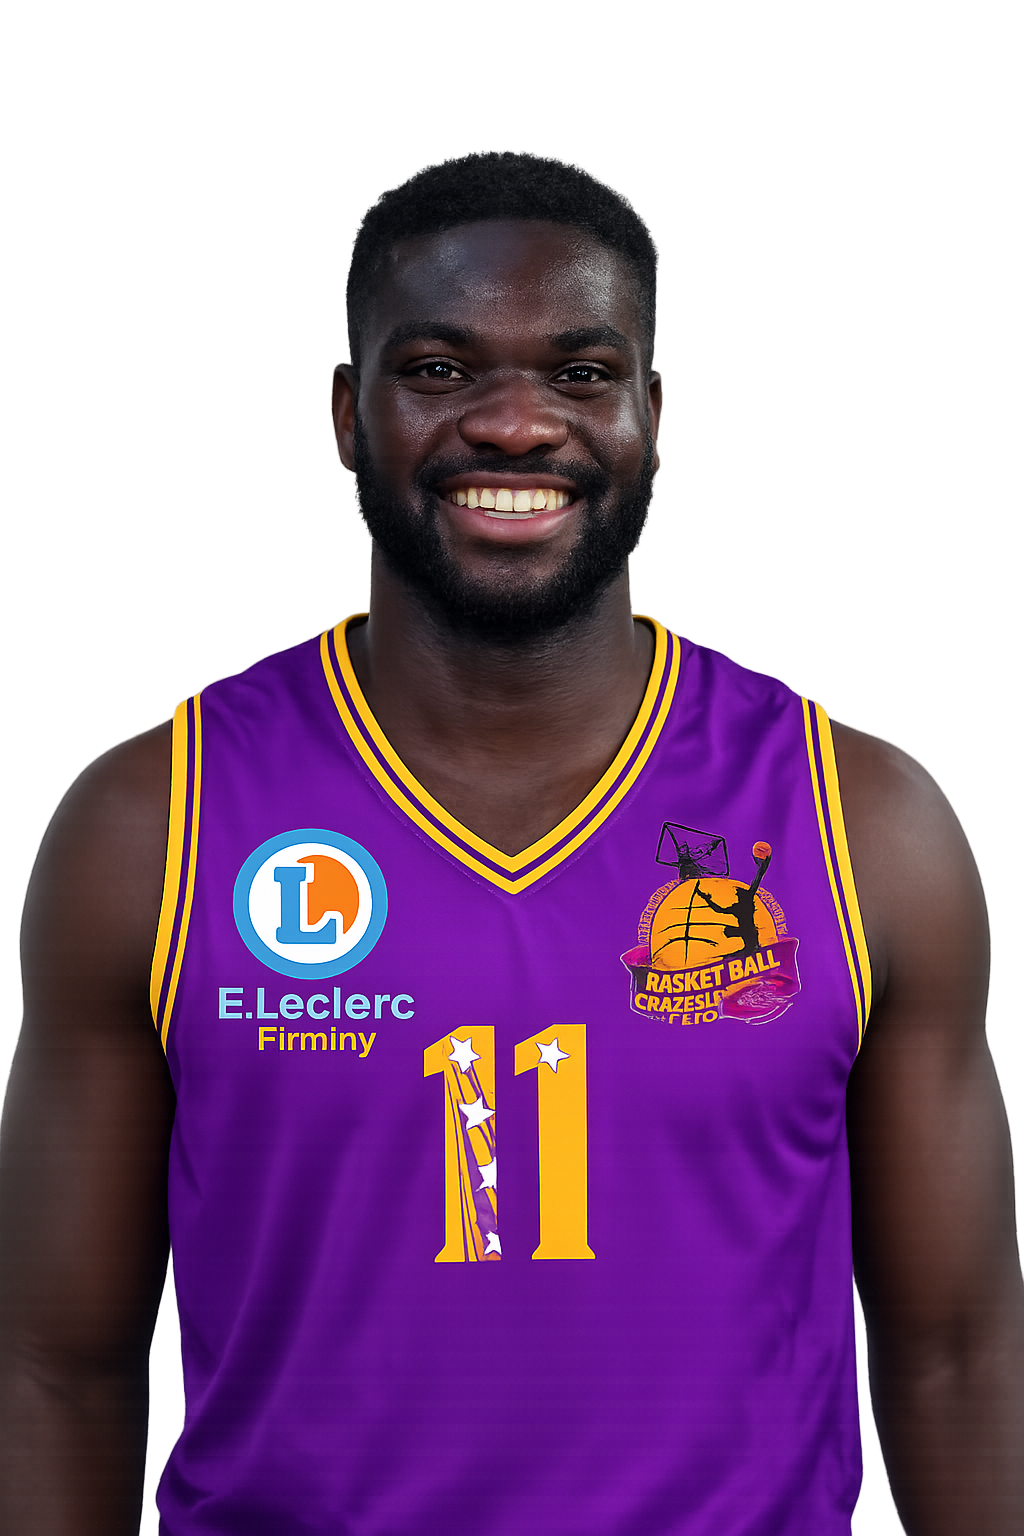
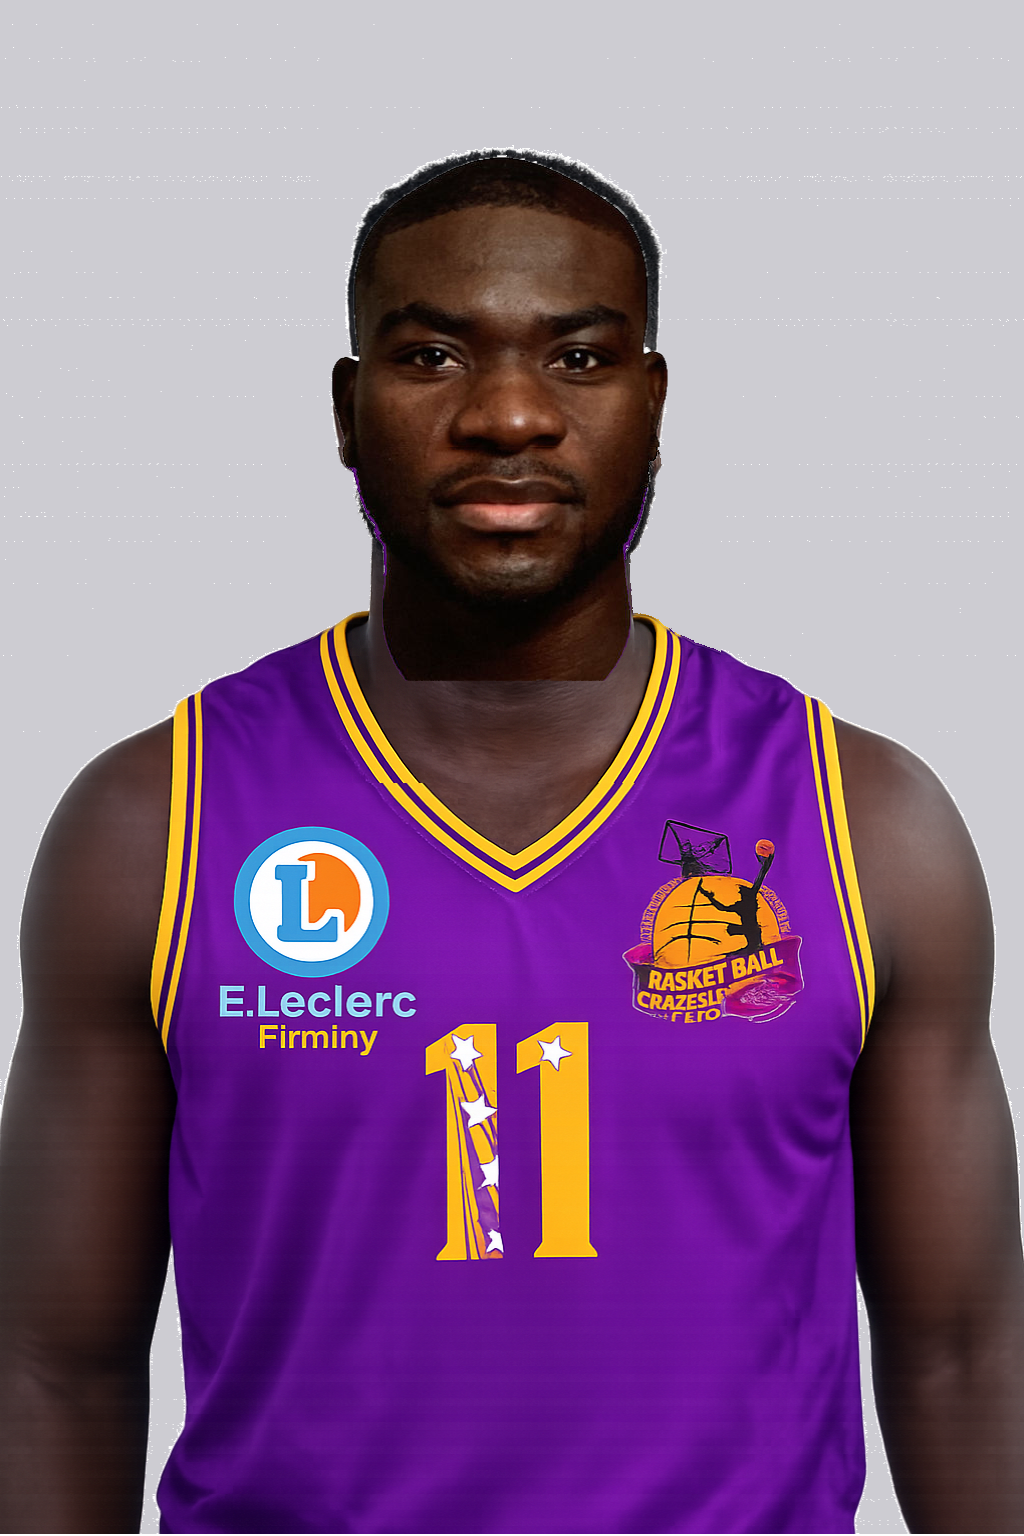
maj12h56

diff --git a/index.html b/index.html
@@ -199,15 +199,15 @@
         .calendar-nav button:hover { background: var(--violet-light); }
         .calendar-nav h3 { min-width: 220px; text-align: center; font-size: 1.3rem; color: var(--violet-deep); }
         .calendar-grid { display: grid; grid-template-columns: repeat(7, 1fr); background: var(--line); gap: 1px; border-radius: var(--radius-md); overflow: hidden; box-shadow: var(--shadow-sm); }
-        .calendar-day { background: var(--paper); min-height: 108px; padding: 10px; transition: background 0.15s, box-shadow 0.15s; }
+        .calendar-day { background: var(--paper); min-height: 128px; padding: 10px; transition: background 0.15s, box-shadow 0.15s; }
         .calendar-day:not(.empty) { cursor: pointer; }
         .calendar-day:not(.empty):hover { background: #faf6ec; box-shadow: inset 0 0 0 2px rgba(232,161,60,0.4); }
         .calendar-day.empty { background: #f2ede2; }
         .calendar-day.today { background: #fff6e6; box-shadow: inset 0 0 0 2px var(--gold); }
-        .calendar-day strong { font-size: 0.85rem; color: var(--ink-soft); font-weight: 600; }
+        .calendar-day strong { font-size: 0.9rem; color: var(--ink-soft); font-weight: 600; }
         .calendar-day.today strong { color: var(--gold); }
         .calendar-day-head { background: var(--violet-deep); color: white; padding: 12px; text-align: center; font-weight: 600; font-size: 0.72rem; text-transform: uppercase; letter-spacing: 0.06em; }
-        .event-item { font-size: 0.68rem; padding: 4px 6px; border-radius: 6px; margin-top: 4px; color: white; font-weight: 600; overflow: hidden; text-overflow: ellipsis; white-space: nowrap; }
+        .event-item { font-size: 0.82rem; padding: 6px 8px; border-radius: 6px; margin-top: 5px; color: white; font-weight: 700; line-height: 1.3; overflow: hidden; text-overflow: ellipsis; white-space: nowrap; }
         .event-match { background: var(--violet); border-left: 3px solid var(--gold); }
         .event-entrainement { background: #2f7fb8; border-left: 3px solid #1d5f8f; }
         .event-anniversaire { background: #c2478a; border-left: 3px solid #8f3266; }
@@ -323,7 +323,7 @@
             .nav-logo span { font-size: 1.1rem; }
             .nav-logo img { height: 36px; }
             .players-grid { grid-template-columns: repeat(2, 1fr); gap: 14px; }
-            .calendar-day { min-height: 68px; font-size: 0.7rem; padding: 6px; }
+            .calendar-day { min-height: 82px; font-size: 0.7rem; padding: 6px; }
             .calendar-nav h3 { min-width: 150px; font-size: 1.05rem; }
             .form-grid { grid-template-columns: 1fr; }
             .container { padding: 28px 16px; }
@@ -441,8 +441,9 @@
             <option value="repas">Repas</option>
             <option value="autre">Autre</option>
         </select></div>
-        <div class="field-block full-width" id="matchAdvField"><label for="matchAdv">Titre / Adversaire</label><input type="text" id="matchAdv" placeholder="Ex : vs Saint-Étienne"></div>
+        <div class="field-block full-width" id="matchAdvField"><label for="matchAdv">Adversaire</label><input type="text" id="matchAdv" placeholder="Ex : Clermont"></div>
         <div class="field-block full-width" id="matchCommentField" style="display:none;"><label for="matchCommentaire">Commentaire</label><textarea id="matchCommentaire" placeholder="Ex : Anniversaire de Léo, repas de fin de saison..."></textarea></div>
+        <p class="full-width" id="matchNoFieldNote" style="display:none; color:var(--ink-soft); font-size:0.85rem; margin:0;">Il suffit d'indiquer la date et l'heure ci-dessus, aucune autre information n'est nécessaire.</p>
     </div><button class="btn btn-gold" style="width:100%; margin-top:22px; justify-content:center;" onclick="saveMatch()">Enregistrer</button></div></div>
 
     <div class="modal-overlay" id="modal-day-details"><div class="modal"><button class="modal-close" onclick="closeModal('day-details')">×</button><h3 id="dayDetailsTitle">Jour</h3><div id="dayDetailsList" style="margin-top:18px;"></div><button class="btn btn-gold admin-only" style="width:100%; margin-top:12px; justify-content:center;" onclick="openMatchModalForDate(currentDayDate)">+ Ajouter un événement ce jour</button></div></div>
@@ -498,8 +499,11 @@
             repas:         { label: 'Repas',         icon: '🍽', color: '#d97a2e' },
             autre:         { label: 'Autre',         icon: '📌', color: '#6b6478' }
         };
-        function isMatchLikeType(type) { return type === 'match' || type === 'entrainement'; }
-        function eventText(m) { return isMatchLikeType(m.type) ? (m.matchAdv || '') : (m.commentaire || ''); }
+        function eventText(m) {
+            if (m.type === 'match') return 'Match' + (m.matchAdv ? ' vs ' + m.matchAdv : '');
+            if (m.type === 'entrainement') return 'Entraînement';
+            return m.commentaire || '';
+        }
 
         // Stocke les listeners actifs pour pouvoir les couper en changeant de page
         const activeListeners = {};
@@ -683,9 +687,9 @@
 
         function toggleMatchFields() {
             const type = document.getElementById('matchType').value;
-            const isMatch = isMatchLikeType(type);
-            document.getElementById('matchAdvField').style.display = isMatch ? 'block' : 'none';
-            document.getElementById('matchCommentField').style.display = isMatch ? 'none' : 'block';
+            document.getElementById('matchAdvField').style.display = (type === 'match') ? 'block' : 'none';
+            document.getElementById('matchCommentField').style.display = (type === 'anniversaire' || type === 'repas' || type === 'autre') ? 'block' : 'none';
+            document.getElementById('matchNoFieldNote').style.display = (type === 'entrainement') ? 'block' : 'none';
         }
 
         function newMatchModal() {
@@ -807,20 +811,19 @@
             const id = document.getElementById('matchId').value;
             const date = document.getElementById('matchDate').value;
             const type = document.getElementById('matchType').value;
-            const isMatch = isMatchLikeType(type);
             const titre = document.getElementById('matchAdv').value.trim();
             const commentaire = document.getElementById('matchCommentaire').value.trim();
 
             if (!date) return toast('La date est obligatoire', 'error');
-            if (isMatch && !titre) return toast('Le titre est obligatoire', 'error');
-            if (!isMatch && !commentaire) return toast('Le commentaire est obligatoire', 'error');
+            if (type === 'match' && !titre) return toast('Le nom de l\'adversaire est obligatoire', 'error');
+            if ((type === 'anniversaire' || type === 'repas' || type === 'autre') && !commentaire) return toast('Le commentaire est obligatoire', 'error');
 
             const data = {
                 date: date,
                 heure: document.getElementById('matchHeure').value,
                 type: type,
-                matchAdv: isMatch ? titre : '',
-                commentaire: isMatch ? '' : commentaire
+                matchAdv: (type === 'match') ? titre : '',
+                commentaire: (type === 'anniversaire' || type === 'repas' || type === 'autre') ? commentaire : ''
             };
 
             try {
